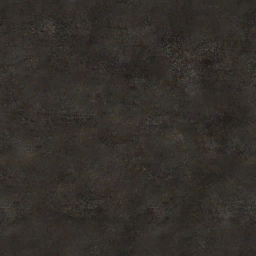
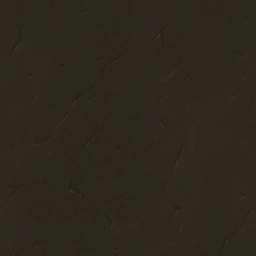
Basic css for search page

diff --git a/Armory/web/css/default.css b/Armory/web/css/default.css
@@ -9,34 +9,79 @@ and open the template in the editor.
 */
 
 body{
-    background-color: #CCCCCC
+    background-color: #2D271D;
+    background-image: url("../Images/UI_Background.png");
+    margin: 0px;
+    height: 100%;
+    color: #8C744C;
+}
+
+a{
+    color: #8C744C;
+    font-style: none;
+}
+
+a:visited{ 
+    color: #8C744C;
+    font-style: none;
+}
+
+html{
+    margin: 0px;
+    height: 100%;
 }
 
 header{
-    height: 75px;
+    height: 100px;
+    margin: 10px;
+}
+
+div{
+    //border: 1px solid;
+}
+
+main{
+    background-color: #111111;
+    min-height: 70%;
+    padding: 10px 20px 10px 20px;
+}
+
+h1{
+    margin-top: 0px;
 }
 
 #centerDiv{
-    width: 70% ;
-    min-width: 700px;
+    height: 100%;
+    width: 60% ;
+    min-width: 500px;
     margin-left: auto ;
     margin-right: auto ;
 }
 
+
 .charListBlock{
+    padding: 5px;
+    margin: 5px;
     display: block;
-    min-width: 260px;
-    width: 33.33%;
+    min-width: 300px;
+    //width: 33.1%;
     float: left;
 }
 
-.charListBlock > .left{
+.charListBlock > a{
+    display: block;
+    width: 100%;
+    height: 100%;
+}
+
+.charListBlock > a > .left{
     display: block;
     float: left;
     height: 100%;
 }
 
-.charListBlock > .right{
+.charListBlock > a > .right{
+    padding-left: 10px;
     display: block;
     width: 75% ;
     height: 64px;
@@ -45,6 +90,7 @@ header{
 
 .right > .name{
     height: 49%;
+    font-weight: bold;
 }
 
 .CharDetailLeft{
@@ -77,7 +123,7 @@ header{
 .itemBlock > .right{
     margin: 2px 0px 0px 10px;
     display: block;
-    //width: 75% ;
+    width: 260px ;
     height: 64px;
     float: left;
 }
@@ -95,4 +141,21 @@ header{
     font-size: 15pt;
     font-weight: bold;
     padding-bottom: 25px;
+}
+
+#logo{
+    background-image: url("../Images/Logo.png");
+    display: block;
+    width: 200px;
+    height: 100px;
+    float:left;
+}
+
+header > .search{
+    float: right;
+    padding-top: 50px;
+}
+
+header > .search > .searchInput{
+    width: 200px;
 }
